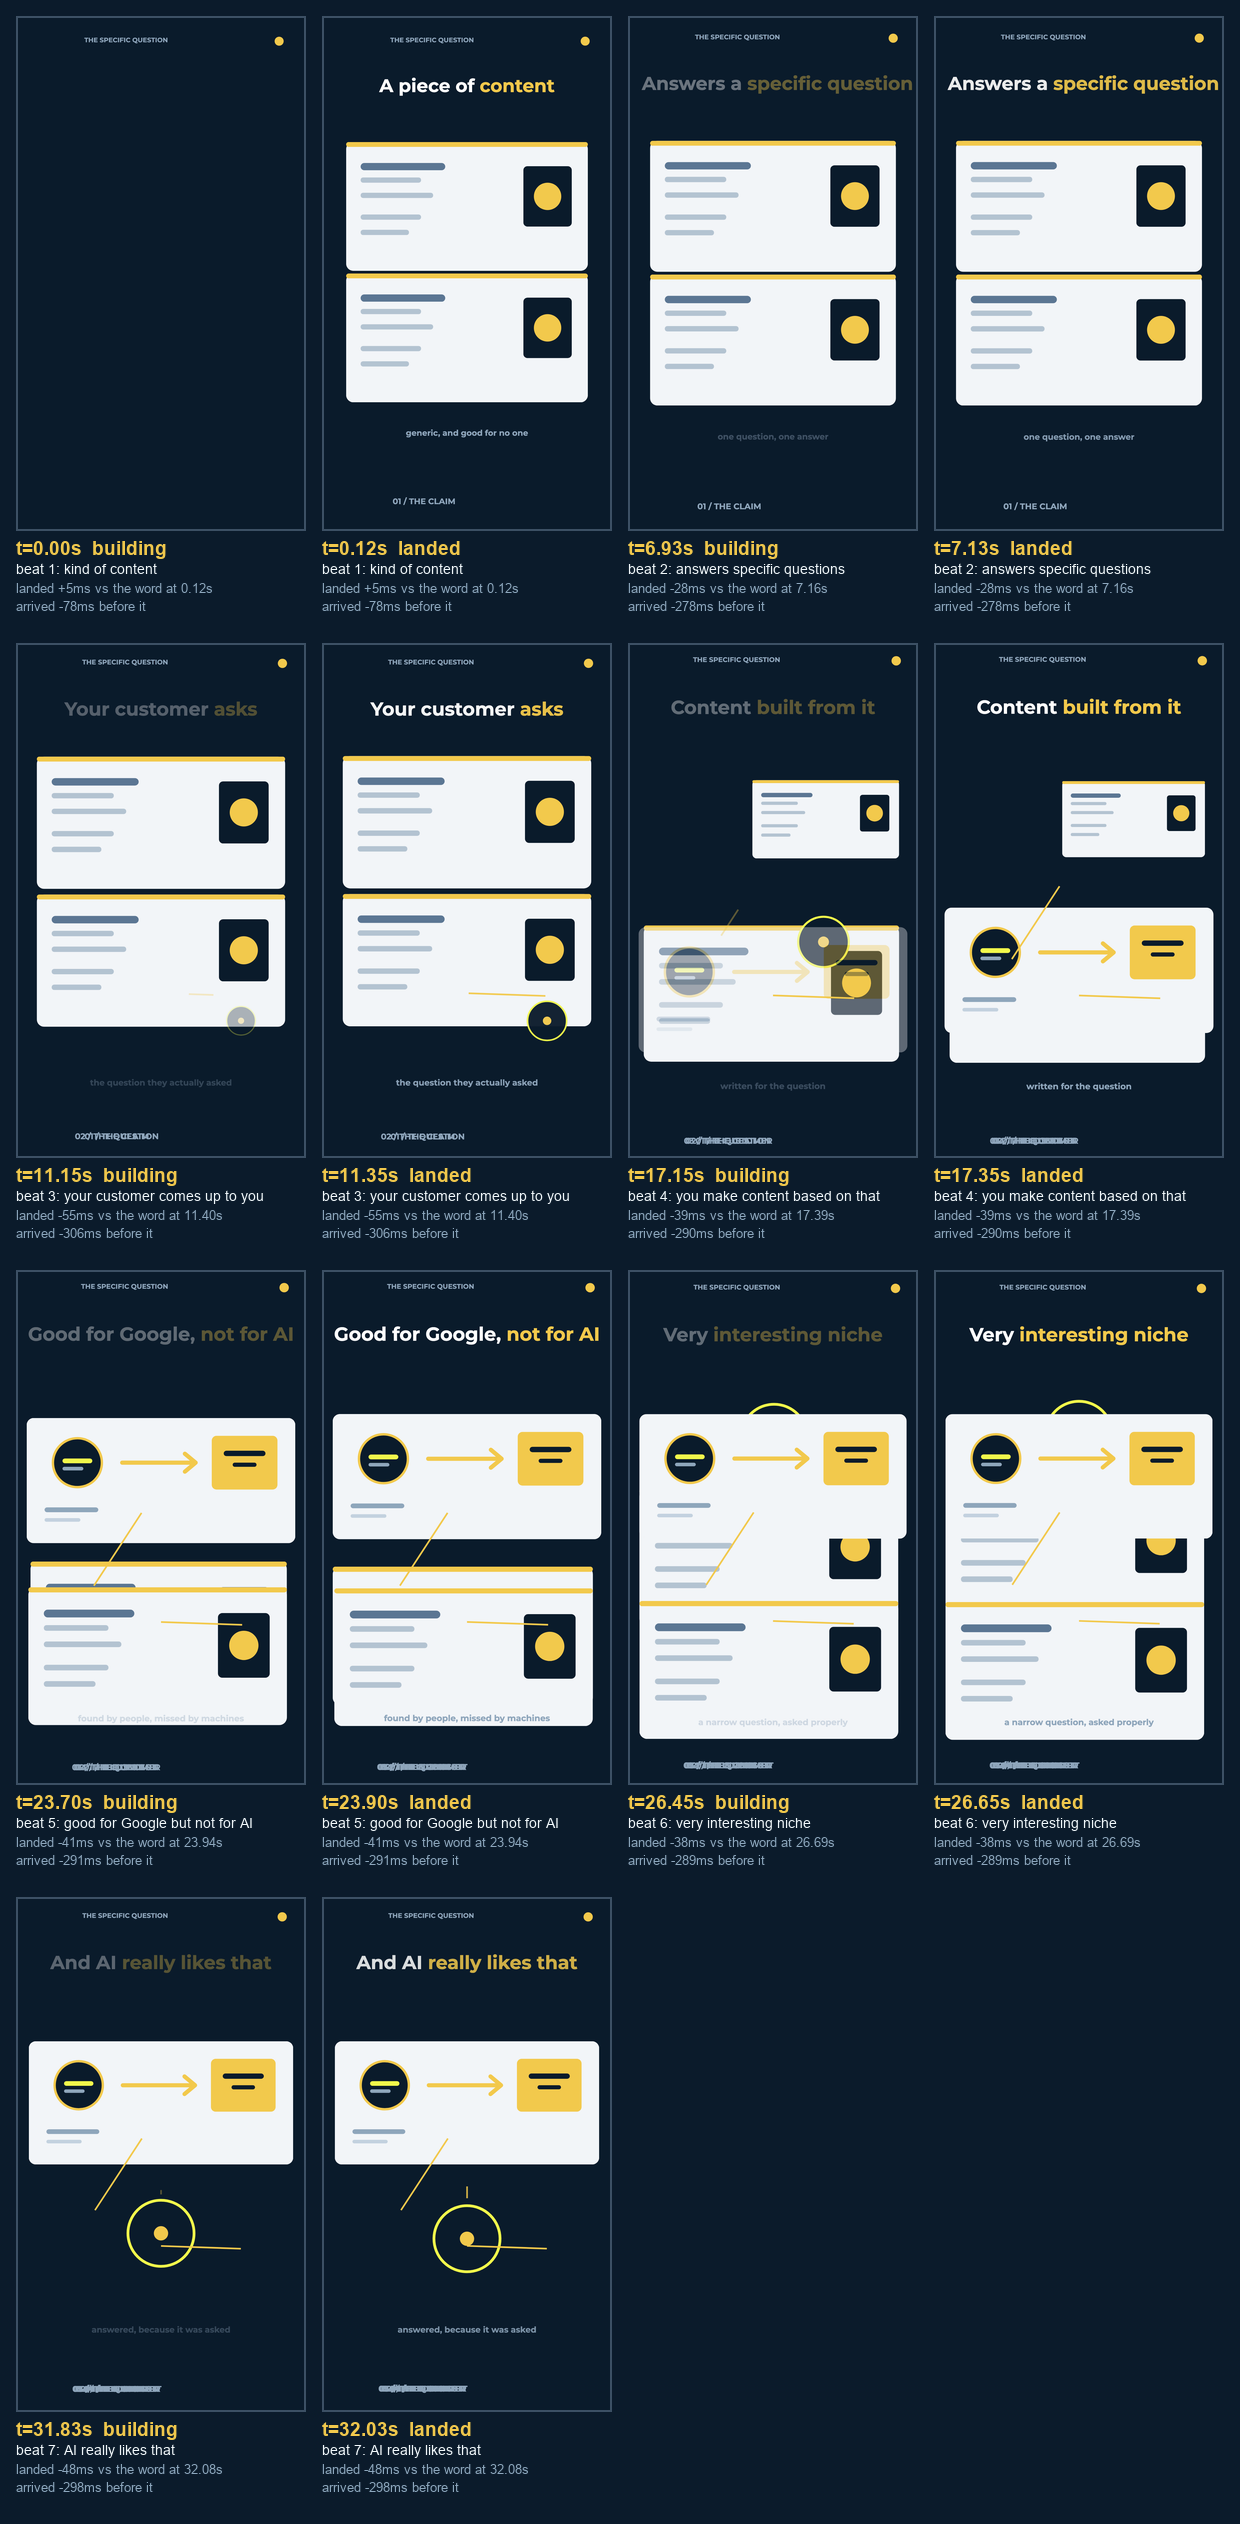
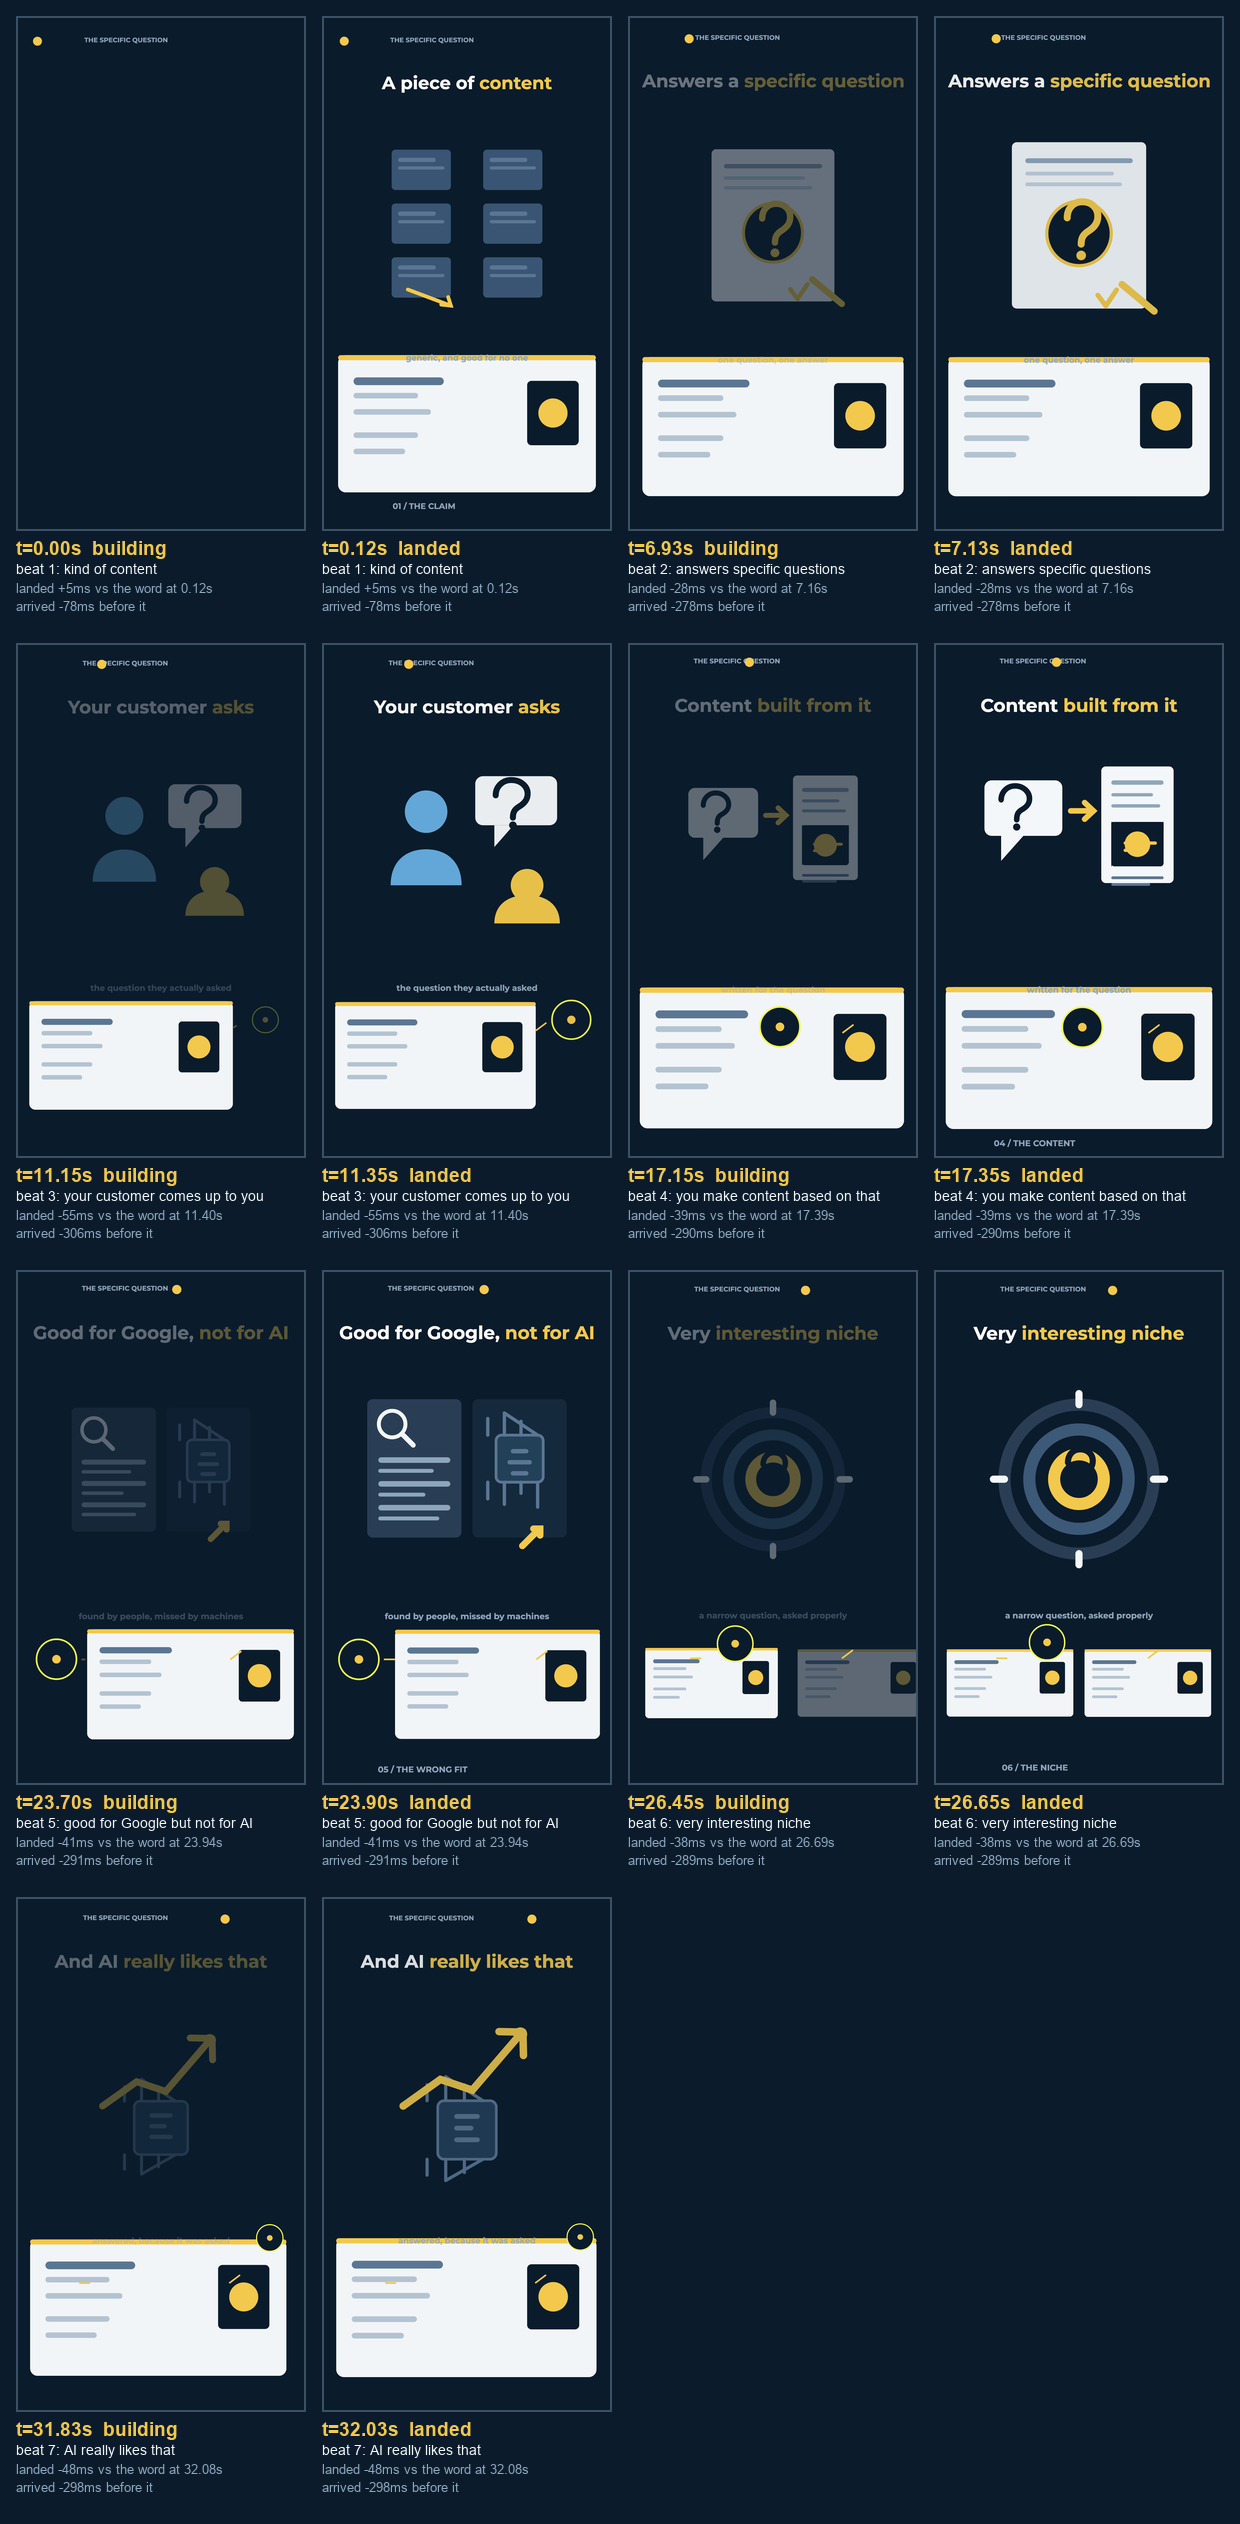
Something visibly changes INSIDE every beat, and the picture DEPICTS the phrase (#3130)
Firstmate's read of the last 2 fps sheet (2026-10-21), and every defect
it named:

1. "long still stretches: 0.5-6.5 s is the same frame, 35-39.5 s is the
   same frame, 26.5-31 s barely moves; something must visibly change
   every beat and inside each beat"
2. "Every picture is the same generic document card with a yellow dot;
   the elements do not depict what the words say (customer asks, Google
   vs AI, niche). Use the project stills and simple drawn icons that
   match each phrase."
3. "20-23.5 s cards overlap each other and collide messily"
4. "The footer text at the bottom overprints itself into an unreadable
   smear from 7.5 s on"
5. "31.5 s drops to a near-empty frame"

Defect 4 was an ENGINE bug and is now fixed: a beat's label was given
an arrival and a landing but never an EXIT, so every label stayed on the
frame for the whole piece and printed itself over the next beat's label
in the same box.  The label now leaves with its beat.

Defect 1 is the engine's motion, and it is now CONTINUOUS:

- a `pulse` - the element breathes for as long as it is on the frame
  (a share of its own size, a rise and fall, and a period).  The engine
  SAMPLES it into keyframes on the tracks the scene renderer already
  reads, so a breathing picture needs no new drawing code.
- a `spin` - the element turns, for as long as it is there.  A picture
  that only breathes can still read as a still.
- the last beat breathes too: it has no next beat and therefore no
[…]

diff --git a/library/tools/explainer_plan.py b/library/tools/explainer_plan.py
@@ -634,6 +634,33 @@ def normalise_beats_declaration(raw: Any) -> dict:
             else:
                 _absolute_box(element.get("box"), f"{label}.box")
             _check_motion(element, label)
+            if element.get("spin") is not None:
+                try:
+                    float(element["spin"])
+                except (TypeError, ValueError):
+                    raise ExplainerError(
+                        f"{label}.spin is {element['spin']!r}, which is "
+                        f"not a number of degrees per second.") from None
+            if element.get("pulse") is not None:
+                pulse = element.get("pulse")
+                if not isinstance(pulse, dict):
+                    raise ExplainerError(
+                        f"{label}.pulse must be a mapping, got "
+                        f"{type(pulse).__name__}.")
+                for key in ("scale", "float", "period"):
+                    if pulse.get(key) is None:
+                        continue
+                    try:
+                        float(pulse[key])
+                    except (TypeError, ValueError):
+                        raise ExplainerError(
+                            f"{label}.pulse.{key} is {pulse[key]!r}, which "
+                            f"is not a number.") from None
+                if pulse.get("period") is not None \
+                        and float(pulse["period"]) <= 0:
+                    raise ExplainerError(
+                        f"{label}.pulse.period is {pulse['period']}; a "
+                        f"breath with no period is not a breath.")
             if element.get("drift") is not None:
                 drift = element.get("drift")
                 if (not isinstance(drift, (list, tuple)) or len(drift) != 2):
@@ -1342,6 +1369,8 @@ def plan_beats(declarations: Sequence[Any], lines: Sequence[dict],
                                       or raw.get("stay_seconds") or 0.0),
                 "drift": tuple(float(v) for v in (element.get("drift")
                                                   or (0.0, 0.0))),
+                "pulse": dict(element.get("pulse") or {}),
+                "spin": element.get("spin"),
             })
         if raw.get("elements") and not elements:
             continue
@@ -1558,6 +1587,25 @@ def beat_scene_props(beats: Sequence[Beat], declaration: dict, *,
                         {"at": max(0.0, arrival),
                          "value": rest + float(pair[index])},
                     ] + list(track)
+        # The PULSE: the element keeps CHANGING for as long as it is on
+        # the frame - it breathes.  A beat whose picture arrives and then
+        # stands still leaves the frame unchanged for the seconds the
+        # word is still being said, and the captain's frames showed
+        # exactly that ("0.5-6.5 s is the same frame").  The engine
+        # SAMPLES the pulse into keyframes, because the scene renderer's
+        # tracks are keyframed and nothing else is needed to make a
+        # picture move every frame of its life.
+        # The last beat has no next beat, so it has no exit - but it
+        # still LIVES until the end of the scene, and a picture that
+        # stops breathing when its beat is the last one is a still.
+        life_end = (exit_at if exit_at is not None
+                    else max(landing, duration_frames / float(fps or 1.0)))
+        pulse = first_entry.get("pulse") or {}
+        if pulse:
+            _apply_pulse(placement, pulse, landing, life_end, fps)
+        spin = first_entry.get("spin")
+        if spin:
+            _apply_spin(placement, float(spin), landing, life_end, fps)
         # The DRIFT: the element keeps MOVING for as long as it is on
         # the frame.  An element that arrives and then stands still is a
         # card, and a card is not an animation - the tutorial's lesson
@@ -1634,6 +1682,19 @@ def beat_scene_props(beats: Sequence[Beat], declaration: dict, *,
         arrival = _beat_arrival(beat, start_seconds)
         opacity = [{"at": max(0.0, arrival), "value": 0.0},
                    {"at": max(0.0, landing), "value": 1.0}]
+        # The label LEAVES with its beat.  A label that stays on the
+        # frame after its beat is over prints itself over the NEXT
+        # beat's label in the same box, and the smear that follows is
+        # unreadable (the captain's frames, 2026-10-21).
+        position = ordered.index(beat)
+        exit_at = None
+        if position + 1 < len(ordered):
+            exit_at = _beat_arrival(ordered[position + 1], start_seconds)
+        ramp = beat_ramp_seconds(beat.exit or "cut", fps)
+        if exit_at is not None:
+            fade_start = max(landing, exit_at - ramp)
+            opacity += [{"at": fade_start, "value": 1.0},
+                        {"at": max(fade_start, exit_at), "value": 0.0}]
         label_placement = _world_box(beat.label_box, width, height)
         label_placement["opacity"] = opacity
         layers.append({
@@ -1700,6 +1761,86 @@ def _put_key(track: Any, at: float, value: float) -> List[dict]:
     keys = [k for k in keys if float(k["at"]) < at - 1e-9]
     keys.append({"at": at, "value": value})
     return keys
+
+
+def _track_value_at(track: Any, at: float) -> float:
+    """The value a keyframed track holds at `at`.
+
+    The tracks here are flat (a value changes at a keyframe and holds
+    until the next), which is what the scene renderer draws.
+    """
+    if isinstance(track, (int, float)):
+        return float(track)
+    value = 0.0
+    for key in track or ():
+        if float(key["at"]) <= at:
+            value = float(key["value"])
+        else:
+            break
+    return value
+
+
+def _apply_spin(placement: dict, degrees_per_second: float, landing: float,
+                exit_at: float, fps: float) -> None:
+    """The element TURNS for as long as it is on the frame.
+
+    A picture that only breathes can still read as a still; a picture
+    that turns cannot.  The rate is the declaration's - the engine
+    states no rate of its own (AGENTS.md 10.5) - and it is sampled into
+    the rotation track the scene renderer already reads.
+    """
+    start = max(0.0, landing)
+    end = max(start + 1e-6, exit_at)
+    step = max(1, int(round(float(fps) / 8.0)))
+    at = start
+    while at < end:
+        placement["rotate"] = _put_key(
+            placement.get("rotate"), at,
+            degrees_per_second * (at - start))
+        at += step / float(fps or 1.0)
+
+
+def _apply_pulse(placement: dict, pulse: dict, landing: float,
+                 exit_at: float, fps: float) -> None:
+    """Sample a PULSE into the placement's tracks.
+
+    `scale` is how much the element breathes (a share of its own size)
+    and `float` how far it rises and falls (world units); `period` is
+    how long one breath takes.  All three are the declaration's - the
+    engine states no rate of its own (AGENTS.md 10.5).  The samples are
+    keyframes on the tracks the scene renderer already reads, so a
+    breathing element needs no new drawing code.
+    """
+    import math
+
+    scale = float(pulse.get("scale") or 0.0)
+    rise = float(pulse.get("float") or 0.0)
+    period = float(pulse.get("period") or 0.0)
+    if period <= 0 or (scale == 0.0 and rise == 0.0):
+        return
+    start = max(0.0, landing)
+    end = max(start + 1e-6, exit_at)
+    step = max(1, int(round(float(fps) * period / 6.0)))
+    samples: List[float] = []
+    at = start
+    while at < end:
+        samples.append(at)
+        at += step / float(fps or 1.0)
+    if not samples:
+        return
+    width_track = placement.get("width")
+    y_track = placement.get("y")
+    for at in samples:
+        phase = 2.0 * math.pi * ((at - start) / period)
+        breath = math.sin(phase)
+        if scale:
+            base = _track_value_at(width_track, at)
+            placement["width"] = _put_key(
+                placement.get("width"), at, base * (1.0 + scale * breath))
+        if rise:
+            base = _track_value_at(y_track, at)
+            placement["y"] = _put_key(
+                placement.get("y"), at, base - rise * breath)
 
 
 def _scene_layer(entry: dict, prefix: str, width: int, height: int,

diff --git a/tests/unit/captions/test_explainer_beats.py b/tests/unit/captions/test_explainer_beats.py
@@ -599,3 +599,89 @@ def test_a_persistent_layer_with_neither_picture_nor_type_is_refused():
              "hold_seconds": 1.0,
              "persistent": [{"box": [0, 0, 10, 10]}]})
     assert "neither an asset nor text" in str(nothing.value)
+
+
+# ── Something must visibly change INSIDE a beat ──────────────────────
+
+def test_a_pulsing_element_changes_on_every_frame_of_its_life():
+    """A beat whose picture arrives and then stands still leaves the
+    frame unchanged for the seconds the word is still being said.
+
+    "0.5-6.5 s is the same frame ... something must visibly change every
+    beat and inside each beat" (the captain's frames, 2026-10-21).  A
+    PULSE is the declaration's breathing: the engine samples it into
+    keyframes on the tracks the scene renderer already reads.
+    """
+    declaration = _declaration()
+    declaration["beats"] = [{
+        "quote": "answers specific questions",
+        "elements": [{"id": "pic", "asset": "brand_assets/question.svg",
+                      "box": [40, 210, 1040, 1210],
+                      "entrance": "scale",
+                      "motion": {"scale_from": 0.86},
+                      "pulse": {"scale": 0.06, "period": 1.0}}],
+    }]
+    declared = ex.normalise_beats_declaration(declaration)
+    anchored = ex.plan_beats(declared[ex.BEATS_KEY], _lines(), 10.0,
+                              resolve_asset=_resolve, fps=23.976)
+    props = ex.beat_scene_props(
+        anchored.beats, declared, width=1080, height=1920, fps=23.976,
+        duration_frames=240, start_seconds=0.0)
+    image = [l for l in props["layers"] if l["kind"] == "image"][0]
+    width = image["placement"]["width"]
+    values = [k["value"] for k in width]
+    assert len(values) > 6, values
+    # It is not one number repeated: the element is a different size on
+    # different frames of its own life.
+    assert len(set(values)) > 3, values
+
+
+def test_a_pulse_with_no_period_is_refused():
+    """A breath with no period is not a breath."""
+    declaration = _declaration()
+    declaration["beats"] = [{
+        "quote": "customer",
+        "elements": [{"id": "pic", "asset": "brand_assets/pic.svg",
+                      "box": [0, 0, 10, 10],
+                      "pulse": {"scale": 0.05, "period": 0}}],
+    }]
+    with pytest.raises(ex.ExplainerError) as no_period:
+        ex.normalise_beats_declaration(declaration)
+    assert "period" in str(no_period.value)
+
+
+def test_a_spinning_element_turns_for_as_long_as_it_is_there():
+    """A picture that only breathes can still read as a still."""
+    declaration = _declaration()
+    declaration["beats"] = [{
+        "quote": "answers specific questions",
+        "elements": [{"id": "pic", "asset": "brand_assets/question.svg",
+                      "box": [40, 210, 1040, 1210],
+                      "spin": 30}],
+    }]
+    declared = ex.normalise_beats_declaration(declaration)
+    anchored = ex.plan_beats(declared[ex.BEATS_KEY], _lines(), 10.0,
+                              resolve_asset=_resolve, fps=23.976)
+    props = ex.beat_scene_props(
+        anchored.beats, declared, width=1080, height=1920, fps=23.976,
+        duration_frames=240, start_seconds=0.0)
+    image = [l for l in props["layers"] if l["kind"] == "image"][0]
+    rotate = image["placement"]["rotate"]
+    assert isinstance(rotate, list) and len(rotate) > 3, rotate
+    assert rotate[-1]["value"] > rotate[0]["value"], rotate
+
+
+def test_a_label_leaves_with_its_beat():
+    """A label that stays on the frame after its beat is over prints
+    itself over the NEXT beat's label in the same box, and the smear
+    that follows is unreadable (the captain's frames, 2026-10-21)."""
+    anchored = ex.plan_beats(
+        _declaration()["beats"], _lines(), 10.0, resolve_asset=_resolve)
+    props = ex.beat_scene_props(
+        anchored.beats, _declaration(), width=1080, height=1920,
+        fps=23.976, duration_frames=240, start_seconds=0.0)
+    labels = [l for l in props["layers"] if l["id"].startswith("label-")]
+    assert labels
+    for label in labels:
+        opacity = label["placement"]["opacity"]
+        assert opacity[-1]["value"] == 0.0, opacity
